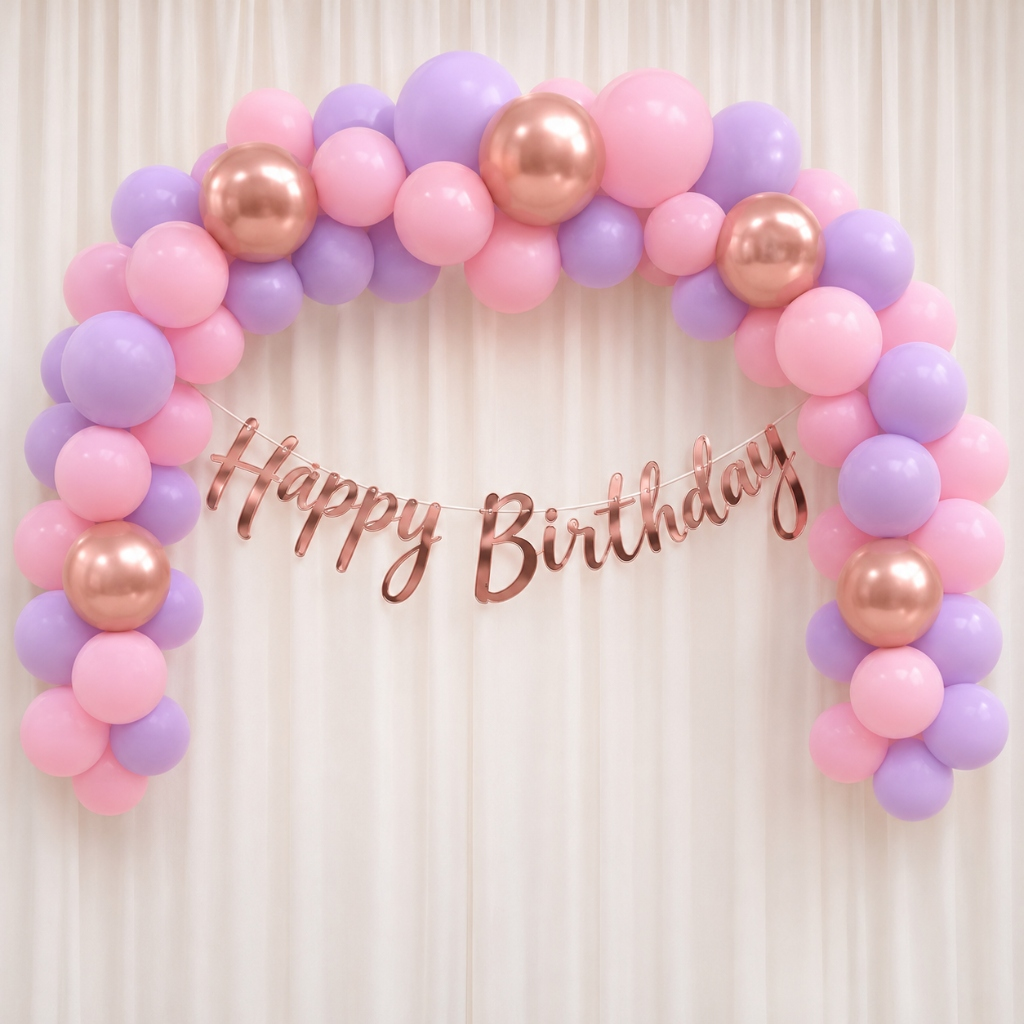
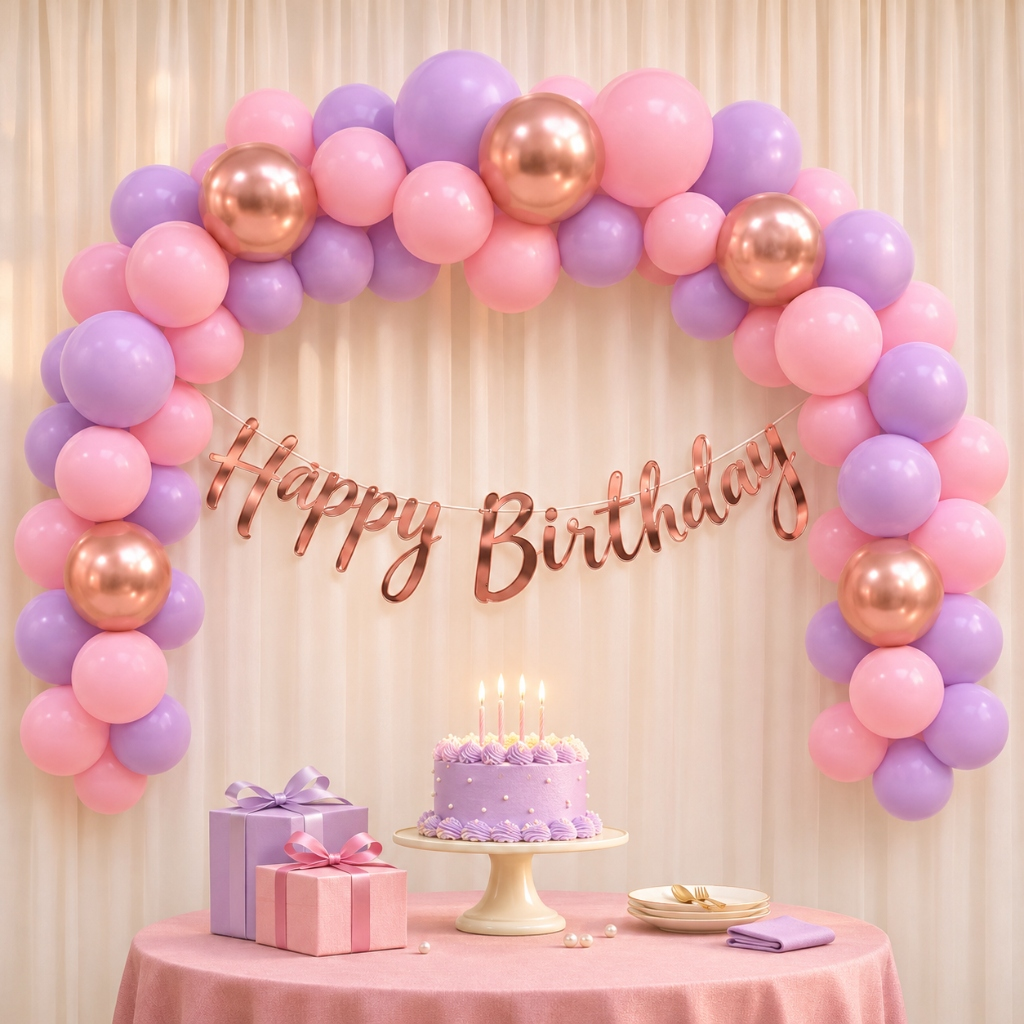
feat(catalog): update primary product setup image for Pastel Rose Celebration Box

diff --git a/src/components/OrderCustomizerModal.tsx b/src/components/OrderCustomizerModal.tsx
@@ -140,8 +140,9 @@ export const OrderCustomizerModal: React.FC<OrderCustomizerModalProps> = ({
     birthdayMessage: birthdayMessage ? birthdayMessage : undefined,
   };
 
-  const handleOrderSubmit = (e: React.FormEvent) => {
-    e.preventDefault();
+  const handleOrderSubmit = (e?: React.FormEvent) => {
+    if (e) e.preventDefault();
+    setSubmitAttempted(true);
 
     const { isValid, errors: validationErrors } = validateOrderForm(currentOrderDetails);
     setErrors(validationErrors);
@@ -184,8 +185,16 @@ export const OrderCustomizerModal: React.FC<OrderCustomizerModalProps> = ({
       clearCart();
     }
 
+    setSubmittedUrl(payload.waMeUrl);
+    setIsSubmitting(true);
+
+    // Launch WhatsApp directly
     triggerWhatsAppChat(payload.waMeUrl);
-    onClose();
+
+    // Close modal after brief delay so user sees confirmation and browser navigation begins cleanly
+    setTimeout(() => {
+      onClose();
+    }, 1500);
   };
 
   const handleCopyMessage = () => {
@@ -874,13 +883,42 @@ export const OrderCustomizerModal: React.FC<OrderCustomizerModalProps> = ({
         {/* STICKY BOTTOM MODAL FOOTER                                     */}
         {/* ============================================================== */}
         <div className="shrink-0 px-5 sm:px-8 py-3.5 sm:py-4 bg-white/95 backdrop-blur-md border-t border-brand-ink/10 z-10">
+          {/* Validation Warning Alert if user tried to submit with missing fields */}
+          {submitAttempted && Object.keys(errors).length > 0 && (
+            <div className="mb-2.5 p-2.5 rounded-xl bg-rose-50 border border-rose-200 text-rose-800 text-xs flex items-center gap-2">
+              <Info className="w-4 h-4 text-rose-600 shrink-0" />
+              <span>Please enter your Full Name and WhatsApp Mobile Number above to continue to WhatsApp.</span>
+            </div>
+          )}
+
+          {/* Success / Launch Status Banner */}
+          {isSubmitting && (
+            <div className="mb-2.5 p-2.5 rounded-xl bg-emerald-50 border border-emerald-200 text-emerald-800 text-xs flex items-center justify-between gap-2">
+              <div className="flex items-center gap-2">
+                <CheckCircle2 className="w-4 h-4 text-emerald-600 animate-pulse shrink-0" />
+                <span className="font-semibold">Opening WhatsApp with your order details...</span>
+              </div>
+              {submittedUrl && (
+                <a
+                  href={submittedUrl}
+                  target="_blank"
+                  rel="noopener noreferrer"
+                  className="font-bold underline text-brand-pink hover:text-brand-pink-hover shrink-0"
+                >
+                  Click here if not opening
+                </a>
+              )}
+            </div>
+          )}
+
           <button
             type="button"
             onClick={handleOrderSubmit}
-            className="w-full py-3.5 px-6 min-h-[48px] rounded-xl text-sm sm:text-base font-bold text-white bg-brand-pink hover:bg-brand-pink-hover shadow-md active:scale-[0.99] transition-all flex items-center justify-center gap-2 cursor-pointer focus:outline-none focus:ring-4 focus:ring-brand-pink/20"
+            disabled={isSubmitting}
+            className="w-full py-3.5 px-6 min-h-[48px] rounded-xl text-sm sm:text-base font-bold text-white bg-brand-pink hover:bg-brand-pink-hover disabled:opacity-80 shadow-md active:scale-[0.99] transition-all flex items-center justify-center gap-2 cursor-pointer focus:outline-none focus:ring-4 focus:ring-brand-pink/20"
           >
             <MessageCircle className="w-5 h-5" />
-            <span>Confirm Order on WhatsApp</span>
+            <span>{isSubmitting ? 'Opening WhatsApp...' : 'Confirm Order on WhatsApp'}</span>
           </button>
 
           <div className="flex items-center justify-between text-[11px] text-brand-ink-muted mt-2 px-1">

diff --git a/src/pages/Home.tsx b/src/pages/Home.tsx
@@ -16,7 +16,8 @@ import { AdminTemplatesModal } from '../components/AdminTemplatesModal';
 import { PolicyModal, PolicyType } from '../components/PolicyModal';
 import { ScrollReveal } from '../components/react-bits/ScrollReveal';
 import { OccasionCategoryGrid } from '../components/OccasionCategoryGrid';
-import { PRODUCTS } from '../config/products';
+import { BUSINESS_CONFIG } from '../config/business';
+import { buildWhatsAppLink, triggerWhatsAppChat } from '../services/whatsappService';
 import { Product, OccasionCategory } from '../types';
 import { useCart } from '../context/CartContext';
 import { ShoppingBag, CheckCircle2 } from 'lucide-react';
